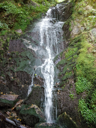
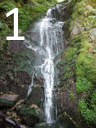
Setter thumbnails

Changed region(s): [[0.0625, 0.0625, 0.2812, 0.3125]]

diff --git a/ImageCoord.py b/ImageCoord.py
@@ -1,6 +1,8 @@
+from PIL import Image, ImageDraw, ImageFont
 import exifread
 import os
 import sys
+import glob
 
 # Classe image contient les coordonnés GPS ainsi que la miniature de l'image si renseigné
 class ImageCoord(object):
@@ -96,6 +98,23 @@ class ImageCoord(object):
                 (str(self.GPSLatitude) != "") &
                 (self.GPSLongitudeRef != "") &
                 (str(self.GPSLongitude) != ""))
+
+    def _set_JPEGThumbnail(self, lienImage, text = "", position = (2,2), fontSize = 40, font="calibri.ttf") :
+        size = 128, 128
+
+        # Créé une miiature de l'image
+        im = Image.open(lienImage)
+        im.thumbnail(size)
+
+        #Poilice du texte
+        font = ImageFont.truetype(font, fontSize)
+
+        # Ecriture sur l'image
+        draw = ImageDraw.Draw(im)
+        draw.text(position, text, font=font)
+
+        # Sauve
+        im.save(lienImage + ".png", "PNG")
 
     # Comparateur permet a la méthode sort de fonctionné correctement
     def __str__(self) :

diff --git a/generationThumbnail.py b/generationThumbnail.py
@@ -1,4 +1,4 @@
-from PIL import Image
+from PIL import Image, ImageDraw, ImageFont
 import glob, os
 
 size = 128, 128
@@ -6,4 +6,13 @@ size = 128, 128
 # Créé une miiature de l'image
 im = Image.open("Image/IMG1.jpg")
 im.thumbnail(size)
-im.save("Image/IMG1thumbnail.png", "PNG")
+
+#Poilice du texte
+font = ImageFont.truetype("calibri.ttf", 50)
+
+# Ecriture sur l'image
+draw = ImageDraw.Draw(im)
+draw.text((2,2), "1",font=font)
+
+# Sauve
+im.save("Image/IMG1thumbnail.png", "PNG")s
